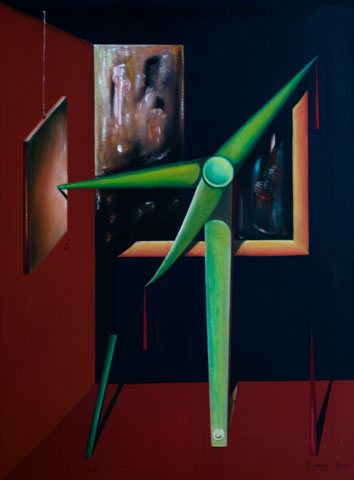
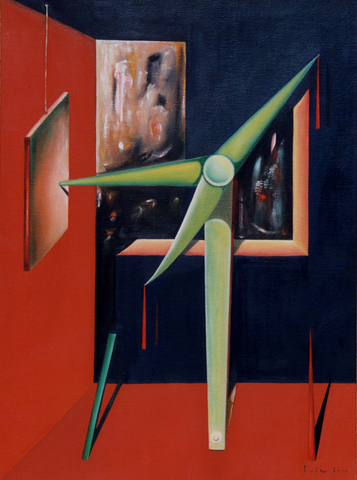
change image alternative and add architecture de l envol

diff --git a/src/content/painting/architecture_de_l_envol-2011-55x46.md b/src/content/painting/architecture_de_l_envol-2011-55x46.md
@@ -1,0 +1,10 @@
+---
+id: architecture_de_l_envol-2011-55x46
+filename: ./architecture_de_l_envol-2011-55x46.jpg
+title: Architecture de l'envol
+year: 2011
+height: 55
+width: 46
+---
+
+Architecture de l'envol
